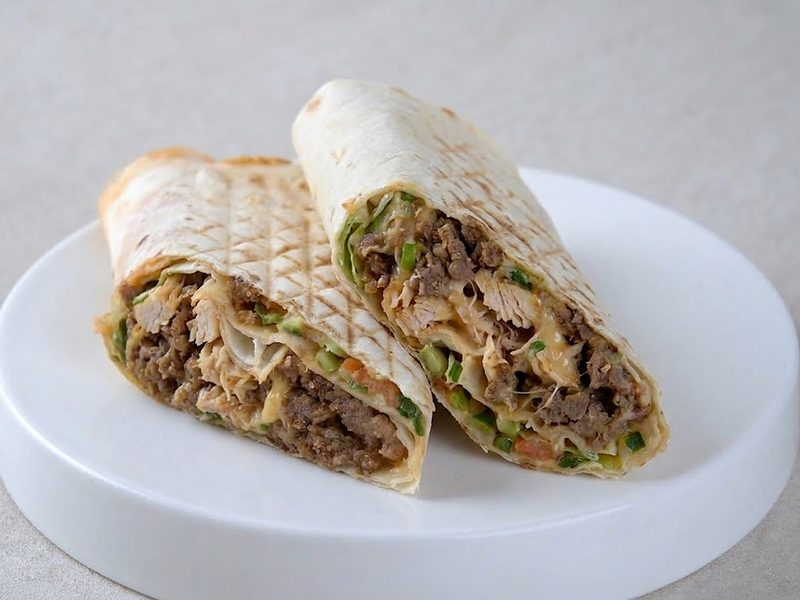
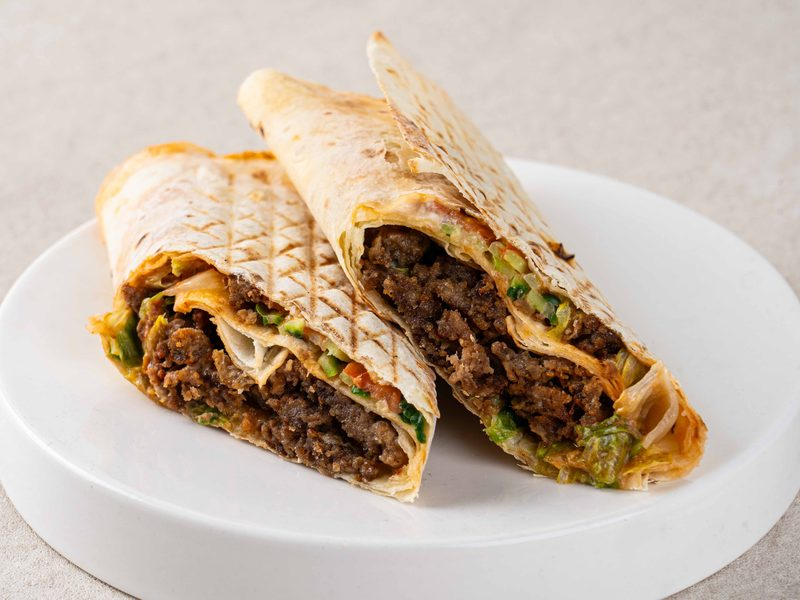
site: 경대케밥 홈페이지 공개 갱신

diff --git a/order/index.html b/order/index.html
@@ -1,7 +1,7 @@
 <!doctype html>
 <html lang="ko">
 <head>
-<meta charset="utf-8"><meta name="robots" content="noindex,nofollow">
+<meta charset="utf-8">
 <meta name="viewport" content="width=device-width, initial-scale=1, viewport-fit=cover">
 <title>경대케밥 단체주문</title>
 <link rel="preconnect" href="https://fonts.googleapis.com">
@@ -413,7 +413,7 @@ SCR.start=function(){
    var nm=g.length===1?iname(ms[0]):T(g[1],g[2]),img=g.length===1?g[0]:g[5];
    var pr=!ps.length?T('가격 미정','Price TBD'):lo===hi?won(lo):won(lo)+' ~ '+won(hi);
    var sub=g.length===1?T(ms[0].desc_ko||'',ms[0].desc_en||''):T(g[3],g[4]);
-   return '<div class="mcard"><img src="'+IMGB+img+'.jpg?v=864df70e" alt="'+esc(nm)+'" loading="lazy" onerror="this.style.display=\'none\'">'+
+   return '<div class="mcard"><img src="'+IMGB+img+'.jpg?v=8348e8a0" alt="'+esc(nm)+'" loading="lazy" onerror="this.style.display=\'none\'">'+
     '<div class="mtxt"><b>'+esc(nm)+'</b><span>'+pr+EX()+'</span>'+(sub?'<span class="msub">'+esc(sub)+'</span>':'')+'</div></div>';}).join('');
  return {bar:false,body:HOMEBODY(logged,cards)};};
 function authBox(forOrder){
@@ -477,7 +477,7 @@ SCR.signup=function(){
  otpBlock()+(S.social?'':idpwFields(true))+
  '<div class="card"><label class="check"><input type="checkbox" id="c-req"'+(F['c-req']?' checked':'')+'><span><b>'+T('[필수]','[Required]')+'</b> '+T('개인정보 수집·이용 동의 — 이름·단체 이름·휴대폰 번호를 주문 처리와 배달 연락에만 씁니다.','Consent to collect your name, organization and phone number for order handling and delivery only.')+'</span></label>'+
  '<label class="check"><input type="checkbox" id="c-mkt"'+(F['c-mkt']?' checked':'')+'><span><b>'+T('[선택]','[Optional]')+'</b> '+T('할인·재주문 안내 받기 (카카오톡 채널)','Get discounts and reorder reminders (KakaoTalk channel)')+'</span></label>'+
- '<button type="button" class="link small" data-act="toast" data-m="'+esc(T('개인정보 처리방침 전문은 공개 전에 붙입니다.','The full privacy policy will be added before launch.'))+'" style="align-self:flex-start;padding:0">'+T('개인정보 처리방침 보기','View privacy policy')+'</button></div>',
+ '<a class="link small" href="'+T('https://gnukebab.co.kr/privacy.html','https://gnukebab.co.kr/en/privacy.html')+'" target="_blank" rel="noopener" style="align-self:flex-start;padding:0">'+T('개인정보 처리방침 보기','View privacy policy')+'</a></div>',
  foot:'<button type="button" class="btn primary" data-act="signup"'+(S.verified?'':' disabled')+'>'+(S.verified?T('가입하고 주문하기','Sign up and order'):T('휴대폰 인증 후 가입할 수 있어요','Verify your phone to continue'))+'</button>'};};
 
 SCR.where=function(){
@@ -527,7 +527,7 @@ SCR.menu=function(){
  var c=city(S.city),k=calc(S.qty,S.city),bl=block(),a=avail(S.date),left=a?a.left:0,rem=Math.max(0,c.minAmount-k.goods);
  /* 09-27(8) 사장님: 사진 크게(한 화면 4개여도 됨) + 메뉴 이름 밑 한 줄 설명 */
  var rows=MENU.map(function(m){var q=S.qty[m.id]||0,note=T(m.note_ko,m.note_en),ds=T(m.desc_ko,m.desc_en);
-   return '<div class="item"><div class="thumb">'+(PHOTO[m.id]?'<img src="'+IMGB+m.id+'.jpg?v=864df70e" alt="" loading="lazy" onerror="this.remove()">':T('사진','photo'))+'</div><div class="itx"><div class="nm">'+esc(L(m))+'</div><div class="pr">'+(m.price?won(m.price)+(note?' '+esc(note):''):T('가격 미정','Price TBD'))+'</div>'+(ds?'<div class="ds">'+esc(ds)+'</div>':'')+
+   return '<div class="item"><div class="thumb">'+(PHOTO[m.id]?'<img src="'+IMGB+m.id+'.jpg?v=8348e8a0" alt="" loading="lazy" onerror="this.remove()">':T('사진','photo'))+'</div><div class="itx"><div class="nm">'+esc(L(m))+'</div><div class="pr">'+(m.price?won(m.price)+(note?' '+esc(note):''):T('가격 미정','Price TBD'))+'</div>'+(ds?'<div class="ds">'+esc(ds)+'</div>':'')+
    '<div class="step"><button type="button" data-act="q" data-id="'+m.id+'" data-d="-1" aria-label="'+T('하나 빼기','Remove one')+'">−</button>'+
    '<input class="q qin" type="text" inputmode="numeric" data-qty="'+m.id+'" id="q-'+m.id+'" value="'+esc(S.qraw[m.id]!=null?S.qraw[m.id]:q)+'" aria-label="'+T(esc(L(m))+' 개수 직접 넣기',esc(L(m))+' quantity')+'">'+
    '<button type="button" data-act="q" data-id="'+m.id+'" data-d="1" aria-label="'+T('하나 더','Add one')+'">+</button><button type="button" data-act="q" data-id="'+m.id+'" data-d="10">+10</button>'+(m.food?'<span class="left'+(rem?'':' ok')+'">'+(rem?T('최소까지 약 '+Math.ceil(rem/(m.price*(1-CFG.discountRate)))+'개',Math.ceil(rem/(m.price*(1-CFG.discountRate)))+' more to min.'):T('✓ 최소 채움','✓ minimum met'))+'</span>':'')+'</div></div></div>';}).join('');
